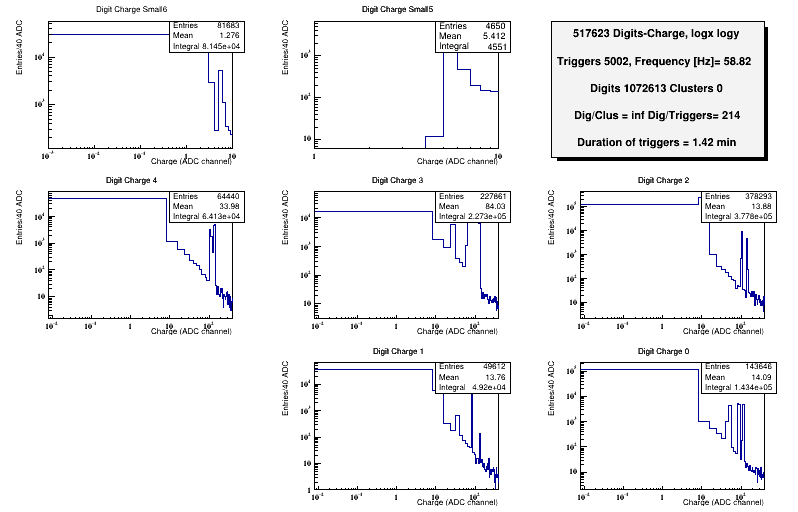
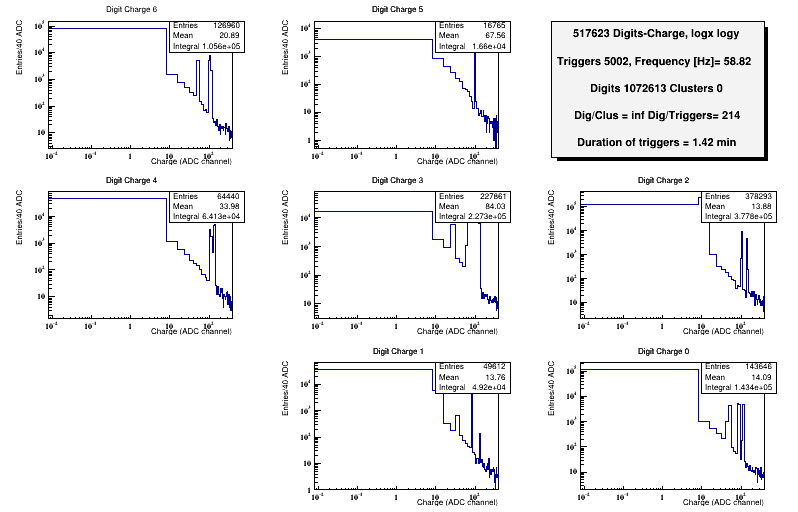
now prints correctly selected off-pads

diff --git a/517623/readClusters.C b/517623/readClusters.C
@@ -252,8 +252,10 @@ void readClusters(int nEvents)
     for(int x = 0; x < 160; x++){
       for(int y = 0; y < 144; y++){
         if(!padDig[chamber][x][y]){
-          digMapSel[chamber]->Fill(x, y, 50.);
+          digMapSel[chamber]->Fill(x, y, 500000.);
           //cout << "False padDigOff " << chamber << " x " << x << " y " << y << endl;
+        } else {
+          digMapSel[chamber]->Fill(x, y, 10.);
         }
       }
     }
@@ -411,7 +413,7 @@ void readClusters(int nEvents)
       }
 
       digMap[module]->Fill(padChX, padChY, charge);
-      digMapAvg[module]->Fill(padChX, padChY, charge/5);//numTriggers
+      digMapAvg[module]->Fill(padChX, padChY, charge/numTriggers);
       //digMap[module]->Fill(padChX, padChY, padDigOff[module][padChX][padChY]);
       //padDigits[module][padChX][padChY] += dig.getQ();
     }
@@ -619,23 +621,28 @@ void readClusters(int nEvents)
   gStyle->SetLabelOffset(0.00525, "y");
 
 
-
+  std::unique_ptr<TCanvas> digMapSelCanv;
+  digMapSelCanv.reset(new TCanvas(Form("Pads turned off by user%i",fname), Form("Pads turned off by user%i",fname), 1200, 1200));
+  digMapSelCanv->Divide(3,3);
+  //digMapSelCanv->cd(3);
   for (int iCh = 0; iCh < 7; iCh++) {
     const auto& pos = posArr[iCh];
     // ========== Digit Charge =========================
-    auto pad3 = static_cast<TPad*>(canvas[5]->cd(pos));
+    auto pad3 = static_cast<TPad*>(digMapSelCanv->cd(pos));
     pad3->SetBottomMargin(.0025+pad3->GetBottomMargin());
     pad3->SetLeftMargin(.065+pad3->GetLeftMargin());
     digMapSel[iCh]->SetLabelOffset(digMapSel[iCh]->GetLabelOffset("y")+0.0015, "y");
     digMapSel[iCh]->SetTitleOffset(1.3,"y");
     pad3->SetRightMargin(-.0025+pad3->GetRightMargin());
-    
-    if(iCh > 4) {digCharges[iCh]->Draw();}
-    //digMapSel[iCh]->Draw();
-  } 
+    digMapSel[iCh]->SetMarkerStyle(3);
+    digMapSel[iCh]->Draw("Colz");
+    digMapSel[iCh]->SetStats(kFALSE);
+  }
 
+  digMapSelCanv->Show();
 
-  TCanvas*  t = new TCanvas(Form("Digits SmallRange%i",fname), Form("Digits SmallRange %i",fname), 1200, 1200);
+  std::unique_ptr<TCanvas> t;
+  t.reset(new TCanvas(Form("Digits SmallRange%i",fname), Form("Digits SmallRange %i",fname), 1200, 1200));
   t->Divide(3,3);
   t->cd(3);
   (tpvs.back())->Draw();
@@ -667,12 +674,9 @@ void readClusters(int nEvents)
     digCharge[iCh]->SetLabelOffset(digCharge[iCh]->GetLabelOffset("y")+0.0015, "y");
     digCharge[iCh]->SetTitleOffset(1.3,"y");
     pad3->SetRightMargin(-.0025+pad3->GetRightMargin());
-    
-    if(iCh > 4) {
-      digCharges[iCh]->Draw();
-    } else {
-      digCharge[iCh]->Draw();
-    }
+   
+    digCharge[iCh]->Draw();
+
    for(int charge = 0; charge <= 4; charge++){
       cout << " Ch, Charge, num " << iCh << " " << charge << " " << chargeBelow4[iCh][charge] << endl; 
    }
@@ -724,18 +728,6 @@ void readClusters(int nEvents)
   bool userInput = false;
   while(!userInput){
     sleep_for(5000ms);
-    for (int iCh = 0; iCh < 7; iCh++) {
-      const auto& pos = posArr[iCh];
-
-      // ========== Digit Charge =========================
-      auto pad3 = static_cast<TPad*>(canvas[5]->cd(pos));
-      pad3->SetBottomMargin(.0015+pad3->GetBottomMargin());
-      pad3->SetRightMargin(-.0025+pad3->GetRightMargin());
-      digMapSel[iCh]->SetLabelOffset(digMapSel[iCh]->GetLabelOffset("y")+0.0015, "y");
-      digMapSel[iCh]->SetTitleOffset(1.3,"y");
-      digMapSel[iCh]->Draw();
-      canvas[5]->Show();
-    }
    
 
     sleep_for(5000ms);
